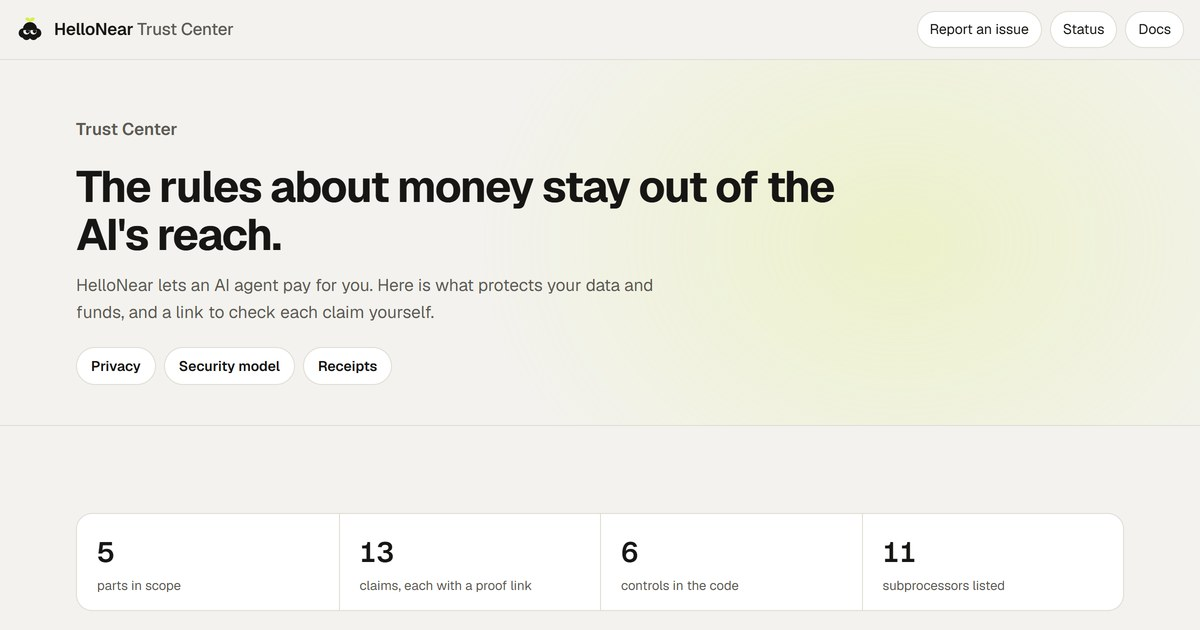
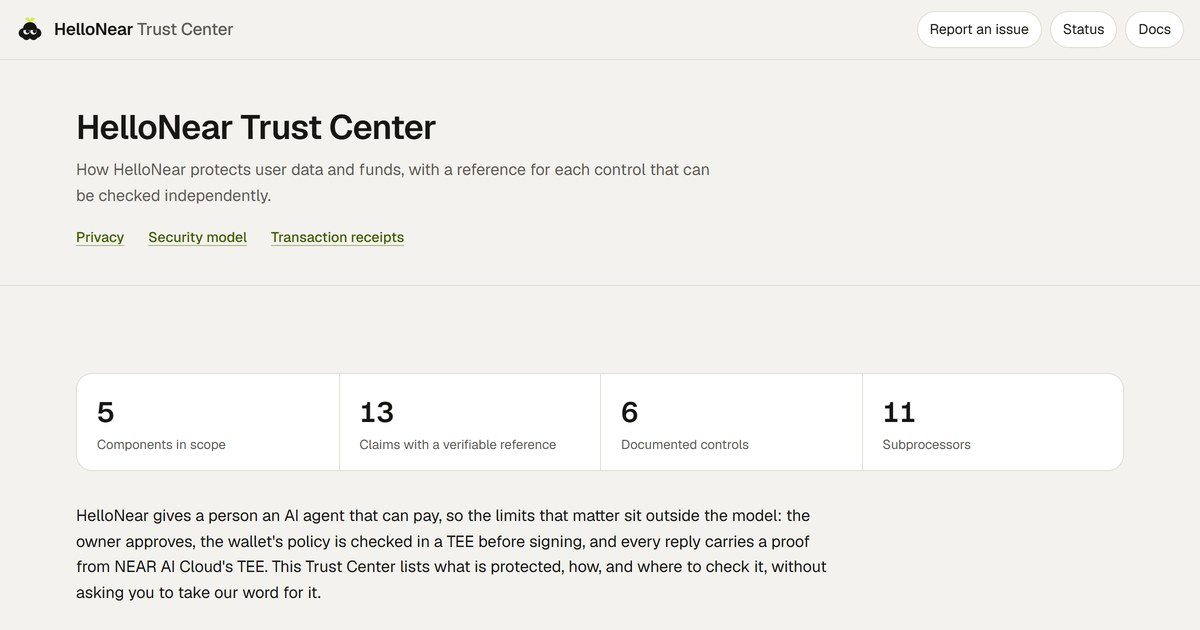
fix(trust): a formal hero and stat labels
Ancung (13 Nov): a slogan headline and a lime glow read too casual for
a trust page. The hero is now the title 'HelloNear Trust Center', one
sentence ('How HelloNear protects user data and funds, with a
reference for each control that can be checked independently.') and
the related documents as text links, on the page's own background.
The numbers read 'Components in scope', 'Claims with a verifiable
reference', 'Documented controls', 'Subprocessors', and the control
icons are neutral. The link preview is rendered again from it.

Tests: typecheck; Playwright at 1280 px light and dark and 390 px: no
sideways scroll.

diff --git a/apps/trust/app/globals.css b/apps/trust/app/globals.css
@@ -108,17 +108,15 @@ code, pre { font-family: var(--font-geist-mono), ui-monospace, SFMono-Regular, M
 
 /* Trust Center */
 .trust .topbar-links { gap: 8px; }
-/* Hero on the page's own background, a faint lime glow behind it (Ancung, 13 Nov: the black band read
-   like a template). */
-.hero { position: relative; overflow: hidden; border-bottom: 1px solid var(--border); }
-.hero::before { content: ""; position: absolute; inset: -40% -10% auto auto; width: 70%; height: 180%; background: radial-gradient(closest-side, color-mix(in oklab, var(--brand) 22%, transparent), transparent); pointer-events: none; }
-.hero-inner { position: relative; max-width: 1080px; margin: 0 auto; padding: 56px 16px 40px; }
-.eyebrow { margin: 0 0 12px; font-size: 13px; font-weight: 600; color: var(--link); }
-.hero h1 { margin: 0 0 14px; font-size: 44px; line-height: 1.08; letter-spacing: -1.4px; max-width: 760px; }
-.hero p { margin: 0 0 20px; max-width: 620px; font-size: 17px; color: var(--muted); }
-.hero-links { display: flex; flex-wrap: wrap; gap: 8px; margin: 0 !important; }
-.hero-links a { padding: 7px 14px; border-radius: 999px; border: 1px solid var(--border); background: var(--card); text-decoration: none; font-size: 14px; font-weight: 600; color: var(--fg); transition: border-color 150ms ease-out; }
-.hero-links a:hover { border-color: var(--fg); }
+/* Hero: formal and plain (Ancung, 13 Nov). The page's own background, a title, one sentence and the
+   related documents as text links. */
+.hero { border-bottom: 1px solid var(--border); }
+.hero-inner { max-width: 1080px; margin: 0 auto; padding: 48px 16px 36px; }
+.hero h1 { margin: 0 0 10px; font-size: 34px; line-height: 1.15; font-weight: 600; letter-spacing: -0.6px; }
+.hero p { margin: 0 0 18px; max-width: 640px; font-size: 16px; color: var(--muted); }
+.hero-links { display: flex; flex-wrap: wrap; gap: 4px 24px; font-size: 14px; }
+.hero-links a { color: var(--link); font-weight: 500; text-decoration: underline; text-underline-offset: 3px; text-decoration-color: color-mix(in oklab, var(--link) 40%, transparent); }
+.hero-links a:hover { text-decoration-color: currentColor; }
 .tabs { border-bottom: 1px solid var(--border); background: var(--bg); position: sticky; top: 60px; z-index: 10; }
 /* Phones: the tabs scroll sideways; a fade at the right edge says there are more. */
 .tabs::after { content: ""; position: absolute; top: 0; right: 0; bottom: 1px; width: 40px; background: linear-gradient(to left, var(--bg), transparent); pointer-events: none; }
@@ -170,7 +168,7 @@ code, pre { font-family: var(--font-geist-mono), ui-monospace, SFMono-Regular, M
 @media (max-width: 860px) {
   .anchor { display: none; }
   .topbar-links { gap: 12px; }
-  .hero h1 { font-size: 38px; }
+  .hero h1 { font-size: 30px; }
 }
 @media (max-width: 520px) {
   .topbar-links:not(.buttons) a:last-child { display: none; }
@@ -211,12 +209,11 @@ a.yes:hover { box-shadow: 0 0 0 1px var(--ok); }
   .stats { grid-template-columns: repeat(2, 1fr); }
   .stats li:nth-child(3) { border-left: 0; }
   .stats li:nth-child(n + 3) { border-top: 1px solid var(--border); }
-  .hero h1 { font-size: 32px; letter-spacing: -0.9px; }
-  .hero-inner { padding: 36px 16px 28px; }
+  .hero h1 { font-size: 26px; letter-spacing: -0.4px; }
+  .hero-inner { padding: 32px 16px 26px; }
 }
 
 /* Control cards: a small icon in a tinted tile above the title. */
-.ctl-icon { display: inline-flex; align-items: center; justify-content: center; width: 34px; height: 34px; border-radius: 10px; background: color-mix(in oklab, var(--brand) 28%, var(--card)); color: var(--brand-ink); margin-bottom: 12px; }
-@media (prefers-color-scheme: dark) { .ctl-icon { background: color-mix(in oklab, var(--brand) 16%, var(--card)); color: var(--brand); } }
+.ctl-icon { display: inline-flex; align-items: center; justify-content: center; width: 34px; height: 34px; border-radius: 10px; border: 1px solid var(--border); color: var(--fg); margin-bottom: 12px; }
 .ctl { transition: border-color 150ms ease-out; }
 .ctl:hover { border-color: color-mix(in oklab, var(--fg) 30%, var(--border)); }

diff --git a/apps/trust/app/layout.tsx b/apps/trust/app/layout.tsx
@@ -30,21 +30,18 @@ export default function RootLayout({ children }: { children: React.ReactNode }) 
               <a className="btn" href={DOCS_URL}>Docs</a>
             </div>
           </header>
-          {/* On the page's own background (Ancung, 13 Nov: the black band read like a template), with a
-              faint lime glow, the one accent. */}
+          {/* Formal and plain (Ancung, 13 Nov: a slogan headline and a glow read too casual for a trust page). */}
           <section className="hero">
             <div className="hero-inner">
-              <p className="eyebrow">Trust Center</p>
-              <h1>The rules about money stay out of the AI&apos;s reach.</h1>
+              <h1>HelloNear Trust Center</h1>
               <p>
-                HelloNear lets an AI agent pay for you. Here is what protects your data and funds, and a link to check each claim
-                yourself.
+                How HelloNear protects user data and funds, with a reference for each control that can be checked independently.
               </p>
-              <p className="hero-links">
+              <nav className="hero-links" aria-label="Related documents">
                 <a href={`${DOCS_URL}/privacy`}>Privacy</a>
                 <a href={`${REPO_URL}#security-model`}>Security model</a>
-                <a href={`${DOCS_URL}/contracts`}>Receipts</a>
-              </p>
+                <a href={`${DOCS_URL}/contracts`}>Transaction receipts</a>
+              </nav>
             </div>
           </section>
           <TrustTabs />

diff --git a/apps/trust/app/page.tsx b/apps/trust/app/page.tsx
@@ -25,10 +25,10 @@ export default function TrustOverview() {
   // The numbers in the strip are counted from the content itself, so they can't drift from it.
   const proofs = table.rows.flat().filter((c) => c.text === "Yes" && c.href).length;
   const stats = [
-    { n: table.rows.length, label: "parts in scope" },
-    { n: proofs, label: "claims, each with a proof link" },
-    { n: controls.items.length, label: "controls in the code" },
-    { n: subs.length, label: "subprocessors listed" },
+    { n: table.rows.length, label: "Components in scope" },
+    { n: proofs, label: "Claims with a verifiable reference" },
+    { n: controls.items.length, label: "Documented controls" },
+    { n: subs.length, label: "Subprocessors" },
   ];
   return (
     <>

diff --git a/apps/trust/CLAUDE.md b/apps/trust/CLAUDE.md
@@ -11,7 +11,7 @@ The Trust Center, **trust.hellonear.xyz**: what protects a HelloNear user's data
 - **For agents:** `/llms.txt`, and every page as Markdown at `/<path>.md` (or with `Accept: text/markdown`), served from `app/md` through `proxy.ts` (Next 16's middleware). `next.config.ts` adds `Link: </llms.txt>; rel="llms-txt"`.
 - **Links:** product pages point at the docs, `https://docs.hellonear.xyz/<page>` (Mintlify, `apps/docs`); keep those slugs in step with `apps/docs/docs.json`. Proof links go to GitHub, NearBlocks, SourceScan or the TEE Explorer. A test fails on any link that is neither a full URL nor a trust page.
 - **Rules (Axel, 13 Nov):** no compliance badges or certifications (HelloNear has none), no "audit" as a claim, no team members' names, no emoji. Every "Yes" in the scope table links to its proof (a test checks it); "N/A" where a control does not apply. Updates only for what git log or the README proves. The repo is public but all rights reserved, so the column says "Source public", never "open source".
-- **Look (Ancung, 13 Nov, "it reads like a template"):** the hero sits on the page's own background with a faint lime glow (no black band), an eyebrow, a headline and Privacy, Security model and Receipts as pills (no "·"). The Overview opens with a strip of four numbers counted from the content itself (parts in scope, claims with a proof link, controls, subprocessors), so they can't drift. The scope table is drawn from the Markdown by `parseTable` (`lib/markdown.ts`): a "Yes" is a green check pill that opens its proof, "N/A" is quiet; under 700 px it becomes one card per part, the controls that apply first. Control cards get a small line icon (`_components/ControlIcon.tsx`, lucide's shapes inline, picked by title). FAQ categories are sentence case. Phones get a fade at the right of the tab bar. Scrollbars match apps/fe. Tab titles read "Trust | HelloNear" and "FAQ | Trust | HelloNear", like the web app's. `app/opengraph-image.jpg` is the hero at 1200 x 630 (rendered from the page; rebuild it if the hero changes).
+- **Look (Ancung, 13 Nov, "it reads like a template"):** the hero is formal and plain (Ancung: a slogan headline and a glow read too casual): the title "HelloNear Trust Center", one sentence, and Privacy, Security model and Transaction receipts as text links (no "·"), on the page's own background. The Overview opens with a strip of four numbers counted from the content itself (parts in scope, claims with a proof link, controls, subprocessors), so they can't drift. The scope table is drawn from the Markdown by `parseTable` (`lib/markdown.ts`): a "Yes" is a green check pill that opens its proof, "N/A" is quiet; under 700 px it becomes one card per part, the controls that apply first. Stat labels are formal ("Components in scope", "Claims with a verifiable reference"). Control cards get a small neutral line icon (`_components/ControlIcon.tsx`, lucide's shapes inline, picked by title). FAQ categories are sentence case. Phones get a fade at the right of the tab bar. Scrollbars match apps/fe. Tab titles read "Trust | HelloNear" and "FAQ | Trust | HelloNear", like the web app's. `app/opengraph-image.jpg` is the hero at 1200 x 630 (rendered from the page; rebuild it if the hero changes).
 - **Windows:** `scripts/build-content.mjs` reads CRLF line ends (git autocrlf) as LF, or the frontmatter isn't found.
 - Styles: plain CSS (`app/globals.css`) with the web app's Stone & Lime tokens, light and dark by `prefers-color-scheme`, 16px gutters, no horizontal scroll at phone width.
 
